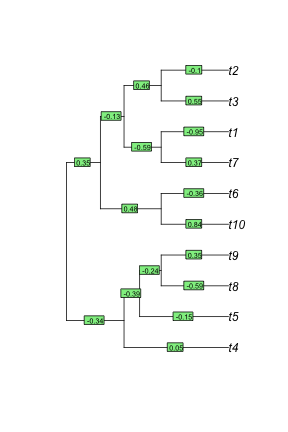
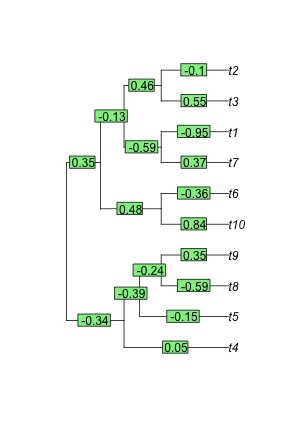
small readme update

diff --git a/README.md b/README.md
@@ -65,7 +65,7 @@ edgelabels()
 ![plot of chunk unnamed-chunk-1](inst/README/figure/unnamed-chunk-1-2.png) 
 
 We find an indicator matrix giving the relationships between the edges
-(plotted above on the phylogeny) and the tips (also plotted)
+(plotted above on the phylogeny) and the tips (also plotted).
 
 
 ```r
@@ -169,7 +169,7 @@ with(rho$pp, image(crossprod(Lambdat %*% Zt)))
 
 ```r
 plot(td$ph)
-edgelabels(round(rho$pp$b(1), 2), cex = 0.6)
+edgelabels(round(rho$pp$b(1), 2))
 ```
 
 ![plot of chunk unnamed-chunk-7](inst/README/figure/unnamed-chunk-7-2.png) 
